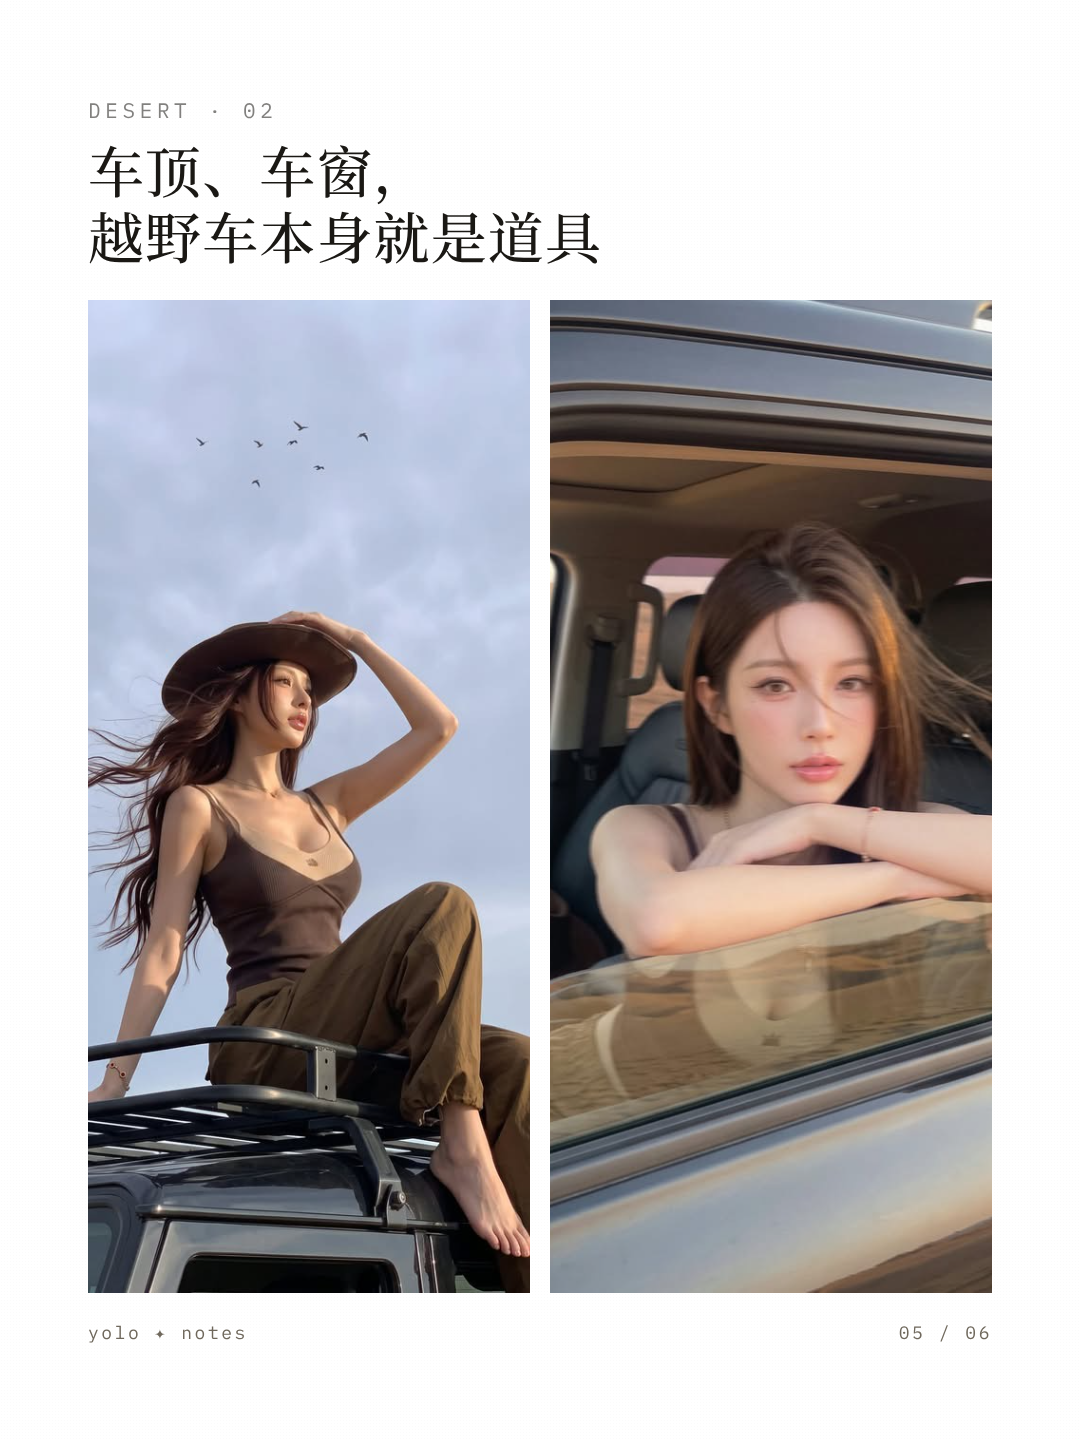
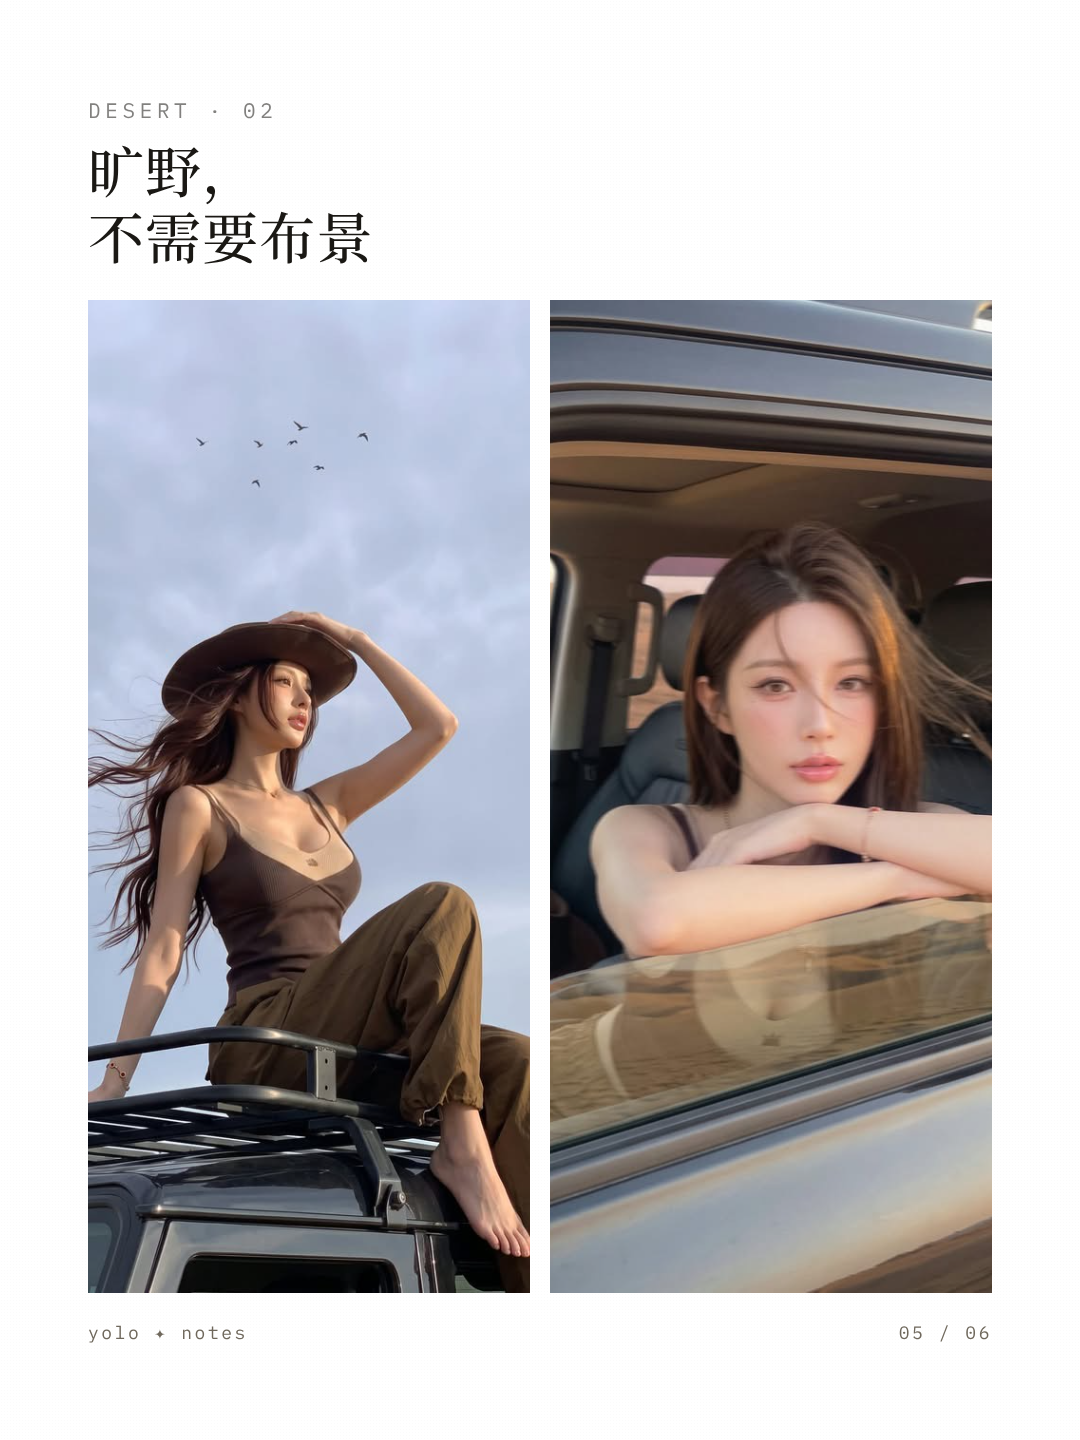
Rewrite diary card set copy and post titles in a more lyrical tone
Claude-Session: https://claude.ai/code/session_01YKQc9RuWsXSxCx48VhkjFs

Changed region(s): [[0.0611, 0.0938, 0.55, 0.1875]]

diff --git a/content/xhs-yolo-diary/index.html b/content/xhs-yolo-diary/index.html
@@ -842,8 +842,8 @@
     <section class="poster xhs" id="xhs-01">
       <img class="bleed" src="assets/sea-05.jpg" alt="" style="object-position:center 40%">
       <div class="cover-title" style="top:96px">
-        <h1 style="font-size:84px">风很大的<br>一天</h1>
-        <p class="sub" style="font-family:var(--serif-zh);font-style:normal;font-size:30px;margin-top:26px">加州海边 · 拍照小记</p>
+        <h1 style="font-size:76px;letter-spacing:.08em">蓝色的风<br>金色的沙</h1>
+        <p class="sub" style="font-family:var(--serif-zh);font-style:normal;font-size:30px;margin-top:26px">加州 · 两次拍照小记</p>
       </div>
     </section>
 
@@ -854,7 +854,7 @@
       <div class="content stack">
         <div class="print" style="flex:1;min-height:0">
           <div class="ph"><img src="assets/sea-01.jpg" alt="" style="object-position:center 30%"></div>
-          <div class="cap">正午的光很硬，但海是一天里最蓝的时候。<br>让她靠着栏杆，往回看一眼就好。<span class="meta">01 · SEASIDE</span></div>
+          <div class="cap">正午的海，蓝得有些过分。<br>她靠着栏杆回头，那一秒刚刚好。<span class="meta">01 · SEASIDE</span></div>
         </div>
         <div class="page-no"><span>yolo ✦ notes</span><span>02 / 06</span></div>
       </div>
@@ -866,7 +866,7 @@
       <div class="grain"></div>
       <div class="content stack">
         <p class="kicker" style="margin-bottom:12px">Seaside · 02</p>
-        <h2 class="h-md" style="margin-bottom:32px">丝巾一直被吹乱，<br>干脆就让它乱着</h2>
+        <h2 class="h-md" style="margin-bottom:32px">风，<br>是最好的造型师</h2>
         <div class="quad">
           <div class="ph"><img src="assets/sea-02.jpg" alt="" style="object-position:center 25%"></div>
           <div class="ph"><img src="assets/sea-04.jpg" alt="" style="object-position:center 30%"></div>
@@ -885,7 +885,7 @@
       <div class="content stack">
         <div class="print" style="flex:1;min-height:0">
           <div class="ph"><img src="assets/desert-03.jpg" alt="" style="object-position:center 45%"></div>
-          <div class="cap">换个地方。沙漠日落前二十分钟，<br>云缝里漏下来的光刚好落在脸上。<span class="meta">02 · DESERT</span></div>
+          <div class="cap">太阳沉下去之前，<br>云缝里漏下一束光，落在她脸上。<span class="meta">02 · DESERT</span></div>
         </div>
         <div class="page-no"><span>yolo ✦ notes</span><span>04 / 06</span></div>
       </div>
@@ -897,7 +897,7 @@
       <div class="grain"></div>
       <div class="content stack">
         <p class="kicker" style="margin-bottom:12px">Desert · 02</p>
-        <h2 class="h-md" style="margin-bottom:32px">车顶、车窗，<br>越野车本身就是道具</h2>
+        <h2 class="h-md" style="margin-bottom:32px">旷野，<br>不需要布景</h2>
         <div class="duo">
           <div class="ph"><img src="assets/desert-02.jpg" alt="" style="object-position:40% 40%"></div>
           <div class="ph"><img src="assets/desert-01.jpg" alt="" style="object-position:55% 42%"></div>
@@ -912,14 +912,14 @@
       <div class="grain"></div>
       <div class="content stack">
         <p class="kicker" style="margin-bottom:12px">Notes · 拍照小记</p>
-        <h2 class="h-xl" style="margin-bottom:40px">这两次拍下来<br>想记住的几件事</h2>
+        <h2 class="h-xl" style="margin-bottom:40px">留给下一次的<br>几句备忘</h2>
         <div>
-          <div class="note-row"><span class="nb">01</span><div><h3>风大是好事</h3><p>选能被吹起来的东西：长发、丝巾、吊带裙摆。比任何姿势都自然。</p></div></div>
-          <div class="note-row"><span class="nb">02</span><div><h3>正午别正对太阳</h3><p>侧身或背对光，让人回头看。不眯眼，肩背的线条也更好看。</p></div></div>
-          <div class="note-row"><span class="nb">03</span><div><h3>日落前二十分钟</h3><p>沙漠的光变化很快，最好看的那段往往只有十几分钟，提前到。</p></div></div>
-          <div class="note-row"><span class="nb">04</span><div><h3>深色衣服压得住</h3><p>大面积的蓝或沙色里，黑色、咖色最稳，画面不会散。</p></div></div>
+          <div class="note-row"><span class="nb">01</span><div><h3>等风来</h3><p>长发、丝巾、裙摆，交给风就好。它比任何姿势都自然。</p></div></div>
+          <div class="note-row"><span class="nb">02</span><div><h3>背着光</h3><p>正午的光太硬，就侧过身、回头看。眼睛不眯，肩背的线条也更柔。</p></div></div>
+          <div class="note-row"><span class="nb">03</span><div><h3>追最后的光</h3><p>沙漠的黄昏很短，最好看的光只停留十几分钟，早一点到。</p></div></div>
+          <div class="note-row"><span class="nb">04</span><div><h3>留一点暗色</h3><p>在大片的海蓝与沙金里，一抹黑或咖色，画面就安静下来。</p></div></div>
         </div>
-        <div class="page-no" style="margin-top:auto"><span>Fujifilm X-T5 · 直出</span><span>06 / 06</span></div>
+        <div class="page-no" style="margin-top:auto"><span>Fujifilm X-T5</span><span>06 / 06</span></div>
       </div>
     </section>
 

diff --git a/content/xhs-yolo-diary/post.md b/content/xhs-yolo-diary/post.md
@@ -2,35 +2,40 @@
 
 ## 标题（任选一个，均 ≤20 字）
 
-1. 风很大的一天，拍到了最蓝的海
-2. 加州海边和沙漠，两次拍照小记
-3. 丝巾一直被吹乱，干脆就让它乱着
+1. 蓝色的风，金色的沙
+2. 风，是最好的造型师
+3. 在加州，替夏天按下快门
+4. 海与旷野之间｜两次拍照小记
 
 ## 正文
 
-最近拍的两组，放一起存个档 📷
+整理了最近的两组。
 
-🌊 海边那天风特别大
-丝巾、头发、裙摆一直被吹乱
-一开始还想等风停，后来发现乱着反而最好看
-正午光很硬，就让她侧身靠着栏杆往回看
+一组在海边。
+那天风很大，丝巾和长发一直被吹乱，
+后来索性不再整理——
+风替她摆好了姿势。
 
-🏜 沙漠是日落前去的
-最好看的光只有十几分钟
-越野车的车顶、车窗都可以拿来拍
-深色衣服在一片沙色里特别稳
+一组在旷野。
+太阳落下去之前，云缝里漏下一束光，
+只停留了十几分钟，
+刚好够我们按下快门。
 
-两组都是富士 X-T5 直出，没怎么调色
-最后一张是拍完记下的几件小事，给想去海边 / 沙漠拍照的姐妹参考～
+蓝与金，大概就是加州的颜色。
 
-在 LA 也想这样拍一组的，可以私信我聊聊 ✨
+最后一页是拍完留下的几句备忘，
+写给下一次，也写给想去海边和旷野拍照的你。
+
+📷 Fujifilm X-T5
+
+在 LA，也想留下这样一组的话，私信聊聊。
 
 ## 话题标签
 
-#洛杉矶约拍 #LA约拍 #加州旅行 #富士直出 #富士XT5 #海边拍照 #沙漠拍照 #人像摄影 #拍照姿势 #松弛感
+#洛杉矶约拍 #LA约拍 #加州 #富士XT5 #人像摄影 #海边拍照 #旷野 #日落 #胶片感 #松弛感
 
 ## 发布提醒
 
-- 图片顺序：01 封面 → 06 小记，按文件名顺序上传。
-- 图片和正文里都不放价格、微信号、电话、WhatsApp；有人在评论或私信问价，再私信发价目表。
+- 图片顺序：按文件名 xhs-01 → xhs-06 上传。
+- 图片和正文里都不放价格、微信号、电话、WhatsApp；有人问价，再私信发价目表。
 - 发布前确认已取得两位模特同意用于宣传。
